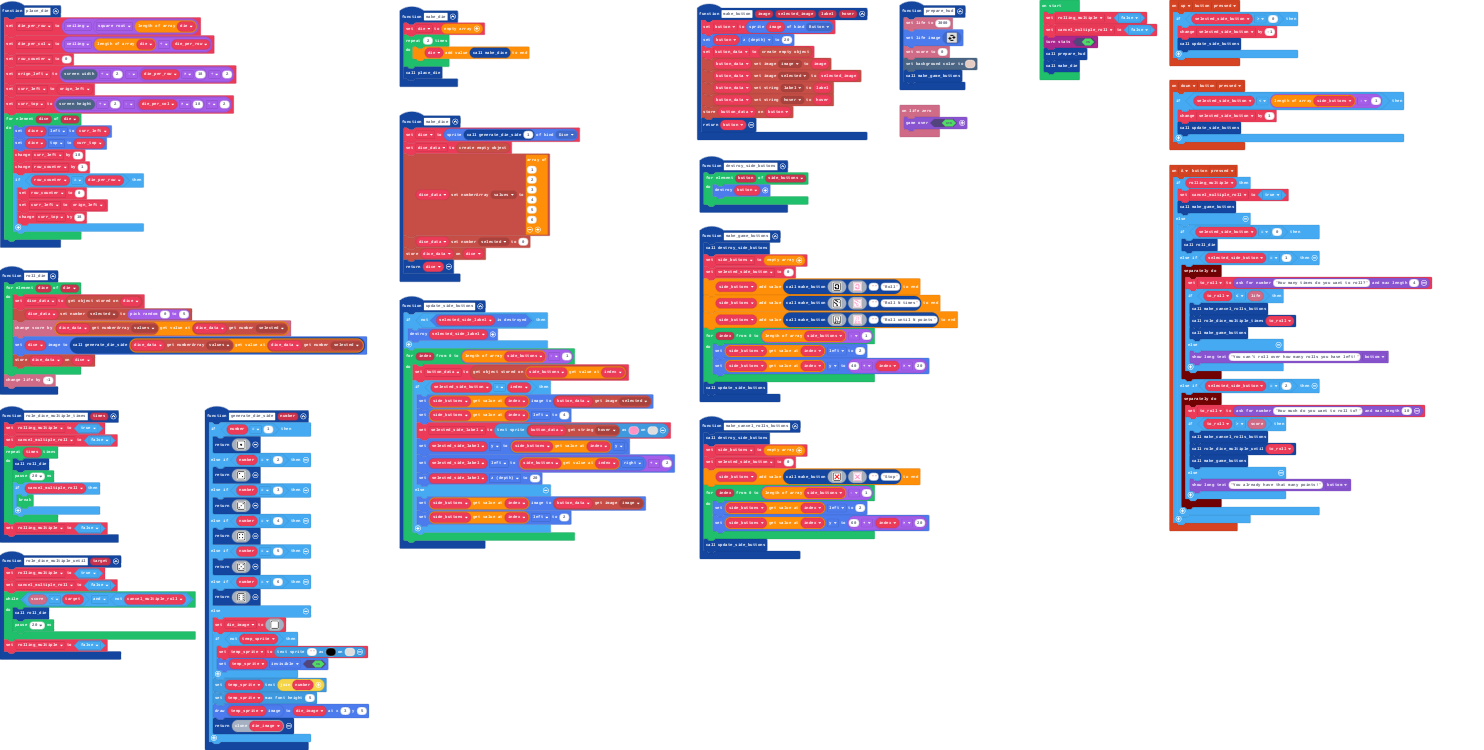
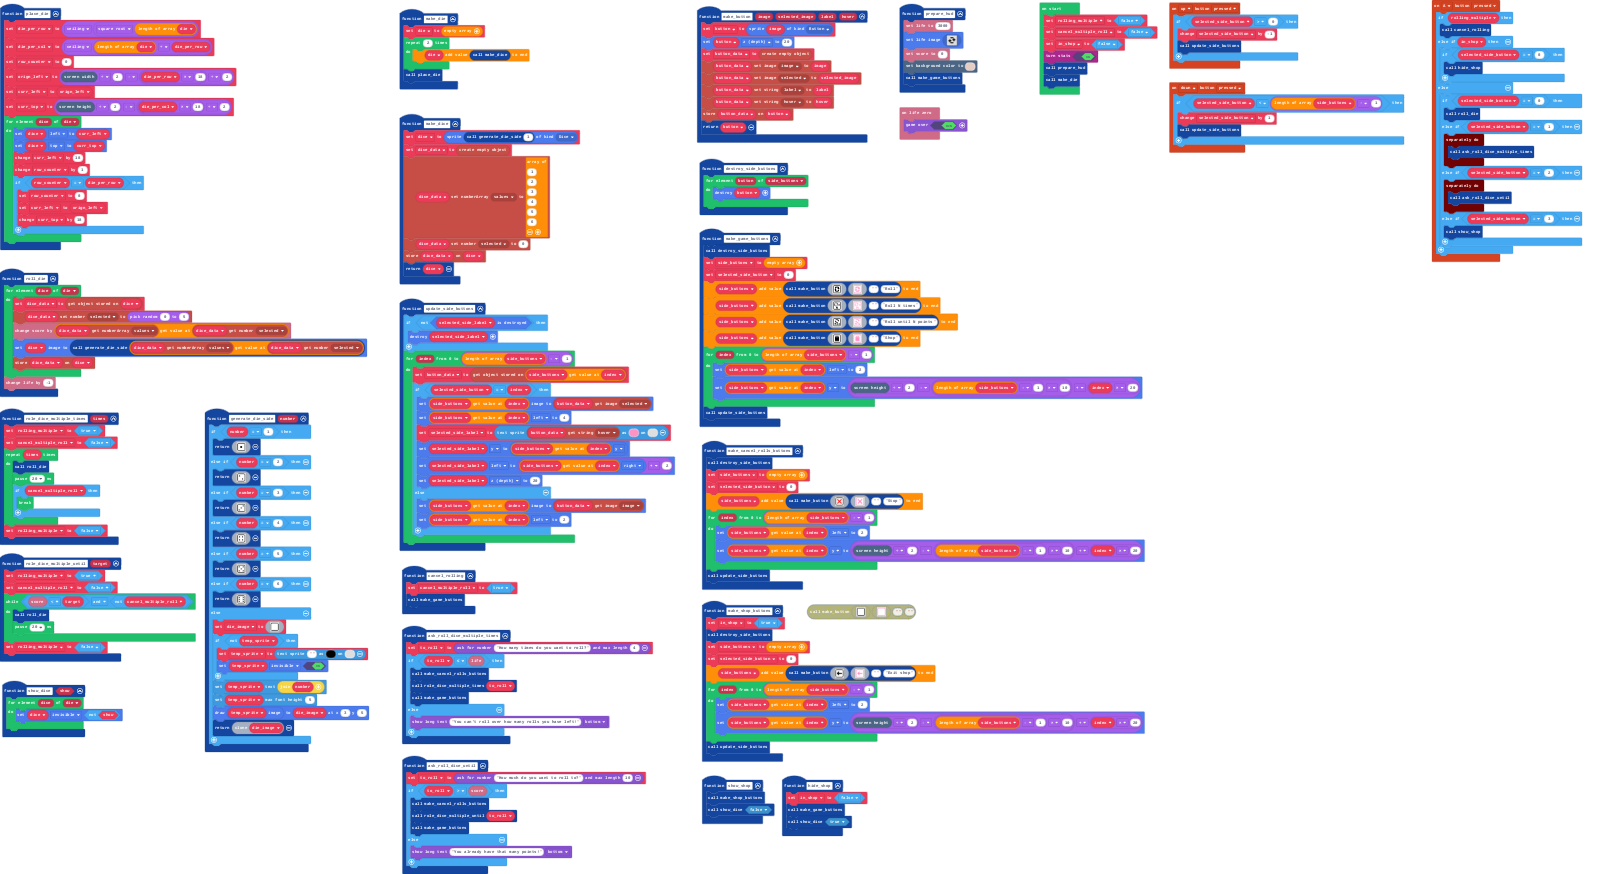
Split everything into functions and make shop exit button

diff --git a/main.ts b/main.ts
@@ -51,38 +51,37 @@ function roll_die () {
     }
     info.changeLifeBy(-1)
 }
+function cancel_rolling () {
+    cancel_multiple_roll = true
+    make_game_buttons()
+}
 controller.A.onEvent(ControllerButtonEvent.Pressed, function () {
     if (rolling_multiple) {
-        cancel_multiple_roll = true
-        make_game_buttons()
+        cancel_rolling()
+    } else if (in_shop) {
+        if (selected_side_button == 0) {
+            hide_shop()
+        }
     } else {
         if (selected_side_button == 0) {
             roll_die()
         } else if (selected_side_button == 1) {
             timer.background(function () {
-                to_roll = game.askForNumber("How many times do you want to roll?", 4)
-                if (to_roll <= info.life()) {
-                    make_cancel_rolls_buttons()
-                    role_dice_multiple_times(to_roll)
-                    make_game_buttons()
-                } else {
-                    game.showLongText("You can't roll over how many rolls you have left!", DialogLayout.Bottom)
-                }
+                ask_roll_dice_multiple_times()
             })
         } else if (selected_side_button == 2) {
             timer.background(function () {
-                to_roll = game.askForNumber("How much do you want to roll to?", 10)
-                if (to_roll > info.score()) {
-                    make_cancel_rolls_buttons()
-                    role_dice_multiple_until(to_roll)
-                    make_game_buttons()
-                } else {
-                    game.showLongText("You already have that many points!", DialogLayout.Bottom)
-                }
+                ask_roll_dice_until()
             })
+        } else if (selected_side_button == 3) {
+            show_shop()
         }
     }
 })
+function show_shop () {
+    make_shop_buttons()
+    show_dice(false)
+}
 function make_dice () {
     dice = sprites.create(generate_die_side(1), SpriteKind.Dice)
     dice_data = blockObject.create()
@@ -105,7 +104,7 @@ function make_cancel_rolls_buttons () {
     side_buttons.push(make_button(assets.image`cancel_rolls_button`, assets.image`cancel_rolls_selected_button`, "", "Stop"))
     for (let index = 0; index <= side_buttons.length - 1; index++) {
         side_buttons[index].left = 2
-        side_buttons[index].y = 60 + index * 20
+        side_buttons[index].y = scene.screenHeight() / 2 - (side_buttons.length - 1) * 10 + index * 20
     }
     update_side_buttons()
 }
@@ -116,9 +115,10 @@ function make_game_buttons () {
     side_buttons.push(make_button(assets.image`roll_button`, assets.image`roll_button_selected`, "", "Roll"))
     side_buttons.push(make_button(assets.image`roll_x_times_button`, assets.image`roll_x_times_button_selected`, "", "Roll N times"))
     side_buttons.push(make_button(assets.image`roll_until_button`, assets.image`roll_until_button_selected`, "", "Roll until N points"))
+    side_buttons.push(make_button(assets.image`shop_button`, assets.image`shop_button_selected`, "", "Shop"))
     for (let index = 0; index <= side_buttons.length - 1; index++) {
         side_buttons[index].left = 2
-        side_buttons[index].y = 40 + index * 20
+        side_buttons[index].y = scene.screenHeight() / 2 - (side_buttons.length - 1) * 10 + index * 20
     }
     update_side_buttons()
 }
@@ -189,12 +189,37 @@ function generate_die_side (number: number) {
         return die_image.clone()
     }
 }
+function show_dice (show: boolean) {
+    for (let dice of die) {
+        dice.setFlag(SpriteFlag.Invisible, !(show))
+    }
+}
+function ask_roll_dice_until () {
+    to_roll = game.askForNumber("How much do you want to roll to?", 10)
+    if (to_roll > info.score()) {
+        make_cancel_rolls_buttons()
+        role_dice_multiple_until(to_roll)
+        make_game_buttons()
+    } else {
+        game.showLongText("You already have that many points!", DialogLayout.Bottom)
+    }
+}
 controller.down.onEvent(ControllerButtonEvent.Pressed, function () {
     if (selected_side_button < side_buttons.length - 1) {
         selected_side_button += 1
         update_side_buttons()
     }
 })
+function ask_roll_dice_multiple_times () {
+    to_roll = game.askForNumber("How many times do you want to roll?", 4)
+    if (to_roll <= info.life()) {
+        make_cancel_rolls_buttons()
+        role_dice_multiple_times(to_roll)
+        make_game_buttons()
+    } else {
+        game.showLongText("You can't roll over how many rolls you have left!", DialogLayout.Bottom)
+    }
+}
 function role_dice_multiple_until (target: number) {
     rolling_multiple = true
     cancel_multiple_roll = false
@@ -207,6 +232,11 @@ function role_dice_multiple_until (target: number) {
 info.onLifeZero(function () {
     game.over(true)
 })
+function hide_shop () {
+    in_shop = false
+    make_game_buttons()
+    show_dice(true)
+}
 function place_die () {
     die_per_row = Math.ceil(Math.sqrt(die.length))
     die_per_col = Math.ceil(die.length / die_per_row)
@@ -226,27 +256,41 @@ function place_die () {
         }
     }
 }
+function make_shop_buttons () {
+    in_shop = true
+    destroy_side_buttons()
+    side_buttons = []
+    selected_side_button = 0
+    side_buttons.push(make_button(assets.image`exit_shop_button`, assets.image`exit_shop_button_selected`, "", "Exit shop"))
+    for (let index = 0; index <= side_buttons.length - 1; index++) {
+        side_buttons[index].left = 2
+        side_buttons[index].y = scene.screenHeight() / 2 - (side_buttons.length - 1) * 10 + index * 20
+    }
+    update_side_buttons()
+}
 let curr_top = 0
 let curr_left = 0
 let orign_left = 0
 let row_counter = 0
 let die_per_col = 0
 let die_per_row = 0
+let to_roll = 0
 let temp_sprite: TextSprite = null
 let die_image: Image = null
 let button: Sprite = null
 let dice: Sprite = null
-let to_roll = 0
 let dice_data: blockObject.BlockObject = null
 let die: Sprite[] = []
 let selected_side_button = 0
 let button_data: blockObject.BlockObject = null
 let side_buttons: Sprite[] = []
 let selected_side_label: TextSprite = null
+let in_shop = false
 let cancel_multiple_roll = false
 let rolling_multiple = false
 rolling_multiple = false
 cancel_multiple_roll = false
+in_shop = false
 stats.turnStats(true)
 prepare_hud()
 make_die()

diff --git a/images.g.ts b/images.g.ts
@@ -318,6 +318,82 @@ f 1 1 1 1 1 1 1 1 1 1 1 1 1 1 f
 . f 1 1 1 1 1 1 1 1 1 1 1 1 f . 
 . . f f f f f f f f f f f f . . 
 `;
+            case "image18":
+            case "shop_button":return img`
+. . f f f f f f f f f f f f . . 
+. f 1 1 1 1 1 1 1 1 1 1 1 1 f . 
+f 1 1 1 1 1 1 1 1 1 1 1 1 1 1 f 
+f 1 1 1 1 f f f f f f 1 1 1 1 f 
+f 1 1 1 1 f 1 1 1 1 f 1 1 1 1 f 
+f 1 1 1 f f f f f f f f 1 1 1 f 
+f 1 1 1 f f f f f f f f 1 1 1 f 
+f 1 1 1 f f f f f f f f 1 1 1 f 
+f 1 1 1 f f f f f f f f 1 1 1 f 
+f 1 1 1 f f f f f f f f 1 1 1 f 
+f 1 1 1 f f f f f f f f 1 1 1 f 
+f 1 1 1 f f f f f f f f 1 1 1 f 
+f 1 1 1 f f f f f f f f 1 1 1 f 
+f 1 1 1 1 1 1 1 1 1 1 1 1 1 1 f 
+. f 1 1 1 1 1 1 1 1 1 1 1 1 f . 
+. . f f f f f f f f f f f f . . 
+`;
+            case "image19":
+            case "shop_button_selected":return img`
+. . 3 3 3 3 3 3 3 3 3 3 3 3 . . 
+. 3 1 1 1 1 1 1 1 1 1 1 1 1 3 . 
+3 1 1 1 1 1 1 1 1 1 1 1 1 1 1 3 
+3 1 1 1 1 3 3 3 3 3 3 1 1 1 1 3 
+3 1 1 1 1 3 1 1 1 1 3 1 1 1 1 3 
+3 1 1 1 3 3 3 3 3 3 3 3 1 1 1 3 
+3 1 1 1 3 3 3 3 3 3 3 3 1 1 1 3 
+3 1 1 1 3 3 3 3 3 3 3 3 1 1 1 3 
+3 1 1 1 3 3 3 3 3 3 3 3 1 1 1 3 
+3 1 1 1 3 3 3 3 3 3 3 3 1 1 1 3 
+3 1 1 1 3 3 3 3 3 3 3 3 1 1 1 3 
+3 1 1 1 3 3 3 3 3 3 3 3 1 1 1 3 
+3 1 1 1 3 3 3 3 3 3 3 3 1 1 1 3 
+3 1 1 1 1 1 1 1 1 1 1 1 1 1 1 3 
+. 3 1 1 1 1 1 1 1 1 1 1 1 1 3 . 
+. . 3 3 3 3 3 3 3 3 3 3 3 3 . . 
+`;
+            case "image20":
+            case "exit_shop_button":return img`
+. . f f f f f f f f f f f f . . 
+. f 1 1 1 1 1 1 1 1 1 1 1 1 f . 
+f 1 1 1 1 1 1 1 1 1 1 1 1 1 1 f 
+f 1 1 1 1 1 1 1 1 1 1 1 1 1 1 f 
+f 1 1 1 1 1 f 1 1 1 1 1 1 1 1 f 
+f 1 1 1 1 f f 1 1 1 1 1 1 1 1 f 
+f 1 1 1 f f f 1 1 1 1 1 1 1 1 f 
+f 1 1 f f f f f f f f f f 1 1 f 
+f 1 1 f f f f f f f f f f 1 1 f 
+f 1 1 1 f f f 1 1 1 1 1 1 1 1 f 
+f 1 1 1 1 f f 1 1 1 1 1 1 1 1 f 
+f 1 1 1 1 1 f 1 1 1 1 1 1 1 1 f 
+f 1 1 1 1 1 1 1 1 1 1 1 1 1 1 f 
+f 1 1 1 1 1 1 1 1 1 1 1 1 1 1 f 
+. f 1 1 1 1 1 1 1 1 1 1 1 1 f . 
+. . f f f f f f f f f f f f . . 
+`;
+            case "image21":
+            case "exit_shop_button_selected":return img`
+. . 3 3 3 3 3 3 3 3 3 3 3 3 . . 
+. 3 1 1 1 1 1 1 1 1 1 1 1 1 3 . 
+3 1 1 1 1 1 1 1 1 1 1 1 1 1 1 3 
+3 1 1 1 1 1 1 1 1 1 1 1 1 1 1 3 
+3 1 1 1 1 1 3 1 1 1 1 1 1 1 1 3 
+3 1 1 1 1 3 3 1 1 1 1 1 1 1 1 3 
+3 1 1 1 3 3 3 1 1 1 1 1 1 1 1 3 
+3 1 1 3 3 3 3 3 3 3 3 3 3 1 1 3 
+3 1 1 3 3 3 3 3 3 3 3 3 3 1 1 3 
+3 1 1 1 3 3 3 1 1 1 1 1 1 1 1 3 
+3 1 1 1 1 3 3 1 1 1 1 1 1 1 1 3 
+3 1 1 1 1 1 3 1 1 1 1 1 1 1 1 3 
+3 1 1 1 1 1 1 1 1 1 1 1 1 1 1 3 
+3 1 1 1 1 1 1 1 1 1 1 1 1 1 1 3 
+. 3 1 1 1 1 1 1 1 1 1 1 1 1 3 . 
+. . 3 3 3 3 3 3 3 3 3 3 3 3 . . 
+`;
         }
         return null;
     })
